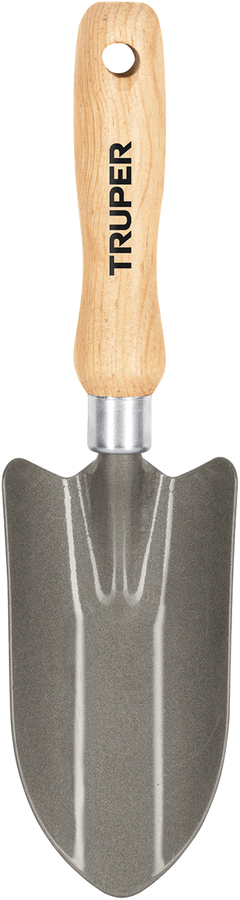
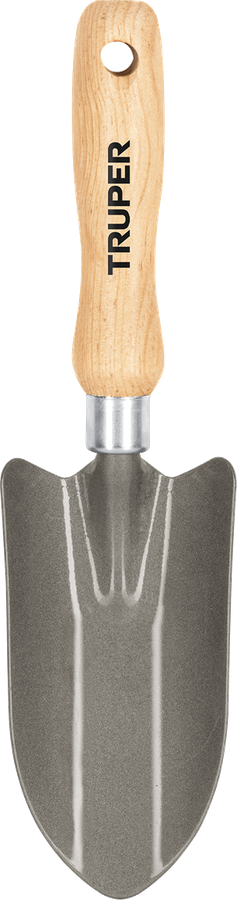
Zombies: productos sin huecos blancos, linterna volteada
Claude-Session: https://claude.ai/code/session_01McLgSiFL8xtsncAxjTsppB

diff --git a/videos/sobrevivirias-zombies/v.html b/videos/sobrevivirias-zombies/v.html
@@ -25,7 +25,7 @@ var CAPS=[[5.4,8.9,"Un día normal… Mart y Vigo iban a entregar un pedido."],[
 <script>
 const RD='#D93025',GRN='#7BC043',WD='#8B5A2B';
 function pic(n,X,Y,W,k=1,rot=0,flip=false,alpha=1){const i=IM[n];if(!i||!i.complete||k<=0)return;const H=W*i.height/i.width;x.save();x.globalAlpha=alpha;x.translate(X,Y);x.rotate(rot);const s=back(k);x.scale(flip?-s:s,s);x.drawImage(i,-W/2,-H,W,H);x.restore()}
-function prod(n,X,Y,W,k=1,rot=0){const i=IM['p-'+n];if(!i||!i.complete||k<=0)return;const H=W*i.height/i.width;x.save();x.translate(X,Y);x.rotate(rot);const s=back(k);x.scale(s,s);x.shadowColor='rgba(0,0,0,.45)';x.shadowBlur=30;x.shadowOffsetY=14;x.drawImage(i,-W/2,-H/2,W,H);x.restore()}
+function prod(n,X,Y,W,k=1,rot=0,flip=false){const i=IM['p-'+n];if(!i||!i.complete||k<=0)return;const H=W*i.height/i.width;x.save();x.translate(X,Y);x.rotate(rot);const s=back(k);x.scale(flip?-s:s,s);x.shadowColor='rgba(0,0,0,.45)';x.shadowBlur=30;x.shadowOffsetY=14;x.drawImage(i,-W/2,-H/2,W,H);x.restore()}
 function prodH(n,X,Y,H,k=1,rot=0){const i=IM['p-'+n];if(!i||!i.complete)return;prod(n,X,Y,H*i.width/i.height,k,rot)}
 function tag(txt,X,Y,k,bg=DK,fg='#fff',size=46,rot=-.03){if(k<=0)return;x.save();x.translate(X,Y);const s=back(k);x.scale(s,s);x.rotate(rot);x.font=`900 ${size}px I`;const w=x.measureText(txt).width;
  x.fillStyle='rgba(0,0,0,.35)';rr(-w/2-28+6,-size*.75+8,w+56,size*1.5,18);x.fill();x.fillStyle=bg;rr(-w/2-28,-size*.75,w+56,size*1.5,18);x.fill();x.lineWidth=6;x.strokeStyle='#1d1f24';x.stroke();
@@ -124,9 +124,9 @@ window.R=t=>{
     ptag('PARRILLA ELÉCTRICA','VOLTECK',540,1500,(u-.4)/.3);tag('¡CARNE ASADA!',540,360,(u-1.2)/.3,YE,'#1d1f24',64)}
    else{ // linterna
     const v=u-5.0;x.fillStyle='rgba(0,0,0,.6)';x.fillRect(-100,-100,1300,2200);
-    x.save();const g=x.createRadialGradient(230,1450,40,560,900,900);g.addColorStop(0,'rgba(255,248,200,.95)');g.addColorStop(1,'rgba(255,248,200,0)');x.fillStyle=g;x.beginPath();x.moveTo(250,1440);x.lineTo(1150,500);x.lineTo(1150,1250);x.closePath();x.fill();x.restore();
+    x.save();const g=x.createRadialGradient(420,1280,40,700,900,800);g.addColorStop(0,'rgba(255,248,200,.95)');g.addColorStop(1,'rgba(255,248,200,0)');x.fillStyle=g;x.beginPath();x.moveTo(420,1280);x.lineTo(1150,480);x.lineTo(1150,1420);x.closePath();x.fill();x.restore();
     pic('m-sorpresa',650,1500,330,(v-.1)/.3);pic('v-sorpresa',920,1480,300,(v-.25)/.3);
-    prod('linterna',250,1440,520,v/.3,-.75);ptag('LINTERNA','TRUPER',540,1610,(v-.3)/.3)}}
+    prod('linterna',250,1440,520,v/.3,-.8,true);ptag('LINTERNA','TRUPER',540,1610,(v-.3)/.3)}}
   else{const v=u-2.6;x.fillStyle='#000';x.fillRect(-100,-100,1300,2200);if(v<.15){x.fillStyle='rgba(255,255,255,.25)';x.fillRect(-100,-100,1300,2200)}
    tag('…ERA ELÉCTRICA',540,700,(v-.2)/.3,'#333','#fff',56);
    if(v>1.0)bubble('¡VIGOOO!',380,1050,(v-1.0)/.25,300,1250,70);
